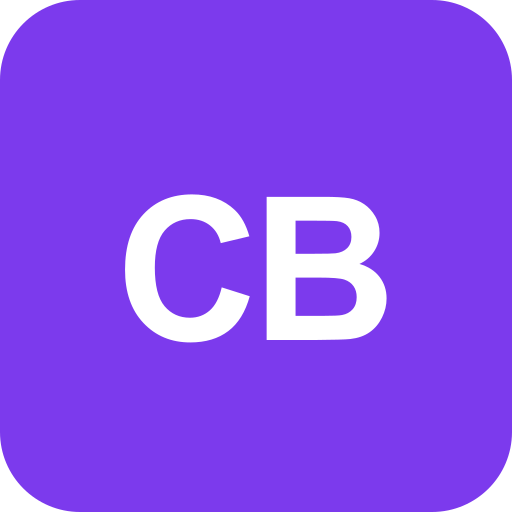
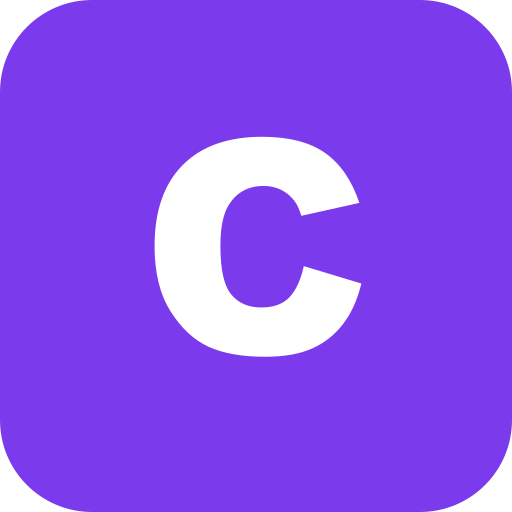
design: Sales Board色に統一・ファビコンC大きく・アイコン刷新

diff --git a/src/index.css b/src/index.css
@@ -1,12 +1,15 @@
 :root {
   /* === Triple S Brand Colors === */
   --primary: #7c3aed;
-  --primary-dark: #5a4aa8;
+  --primary-dark: #5b21b6;
   --primary-light: #f5f3ff;
   --bg: #faf8ff;
-  --text: #1e1b4b;
+  --card: #ffffff;
+  --text: #111827;
   --text-light: #6b7280;
   --border: #e5e7eb;
+  --shadow: 0 1px 8px rgba(0,0,0,0.06), 0 2px 16px rgba(0,0,0,0.04);
+  --radius: 12px;
 
   /* 後方互換エイリアス */
   --brand: var(--primary);
